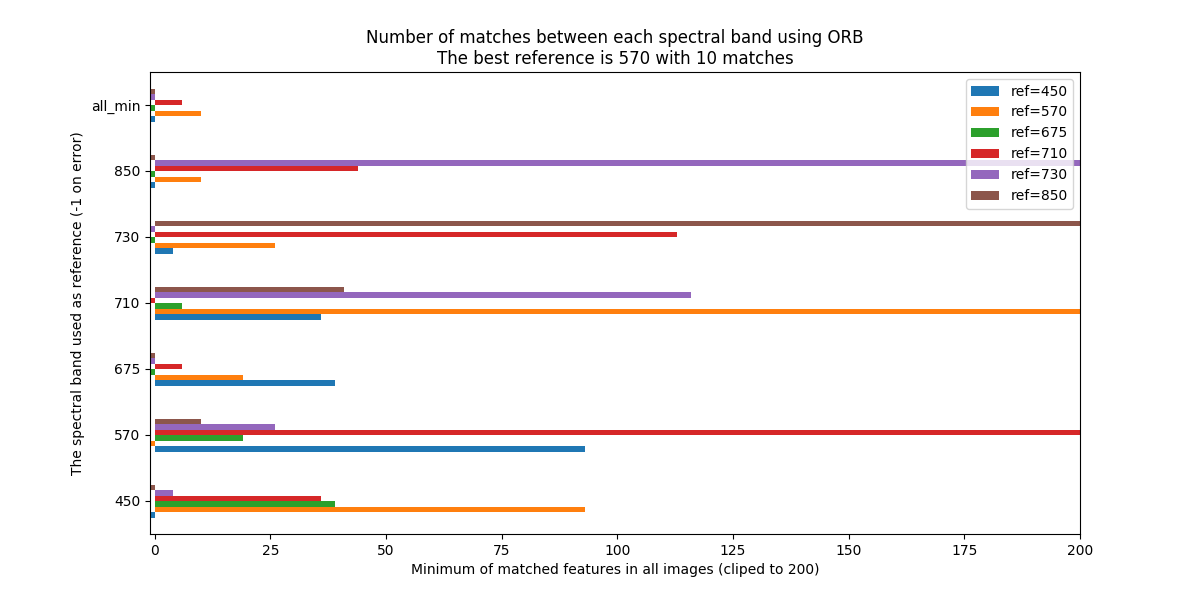
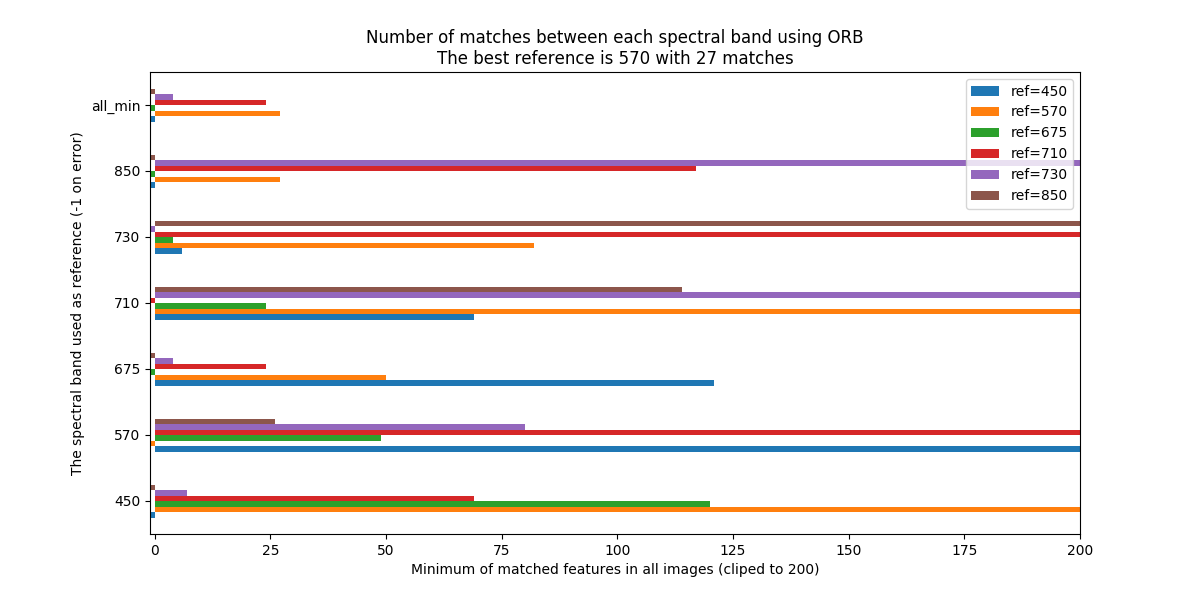
new GFTT feature extraction

diff --git a/8.time-reference-plot.py b/8.time-reference-plot.py
@@ -26,37 +26,18 @@ pass
 all_times = np.array(all_times)
 all_best = np.array(all_best)
 value = all_best / all_times * 2
-merged = np.vstack([all_times, all_best, value]).transpose()
+merged = np.vstack([all_times * 5, all_best, value]).transpose()
 
-if False:
-    fig, axes = plt.subplots(1, 2, figsize=(10,3))
+fig, axes = plt.subplots(1, 1, figsize=(10,3))
+columns = ['5x time in seconds', 'number of matches', 'matches/time']
 
-    df = pd.DataFrame(
-        all_times, index=all_methods,
-        columns=pd.Index(['computation time in seconds'])
-    )
-    df.plot(ax=axes[0], kind='barh')
-    axes[0].legend(loc='lower right')
-
-    df = pd.DataFrame(
-        all_best, index=all_methods,
-        columns=pd.Index(['number of features'])
-    )
-    df.plot(ax=axes[1], kind='barh')
-    axes[1].legend(loc='lower right')
-else:
-    fig, axes = plt.subplots(1, 1, figsize=(10,3))
-    all_times = all_times * 4
-    columns = ['4x time in seconds', 'number of matches', 'matches/time']
-    
-    df = pd.DataFrame(
-        merged, index=all_methods,
-        columns=pd.Index(columns)
-    )
-    df = df.sort_values(['matches/time'])
-    df.plot(ax=axes, kind='barh')
-    plt.xlim([0,200])
-pass
+df = pd.DataFrame(
+    merged, index=all_methods,
+    columns=pd.Index(columns)
+)
+df = df.sort_values(['matches/time'])
+df.plot(ax=axes, kind='barh')
+plt.xlim([0,250])
 
 plt.suptitle('Keypoint extraction performances')
 plt.tight_layout(rect=(0,0,1,0.97))

diff --git a/src/keypoint.py b/src/keypoint.py
@@ -72,7 +72,7 @@ def keypoint_detect(img1, img2, method='FAST'):
     #print('keypoint detection ...')
     
     detectors = {
-        'ORB'   : partial(cv2.ORB_create, nfeatures=2000), # error
+        'ORB'   : partial(cv2.ORB_create, nfeatures=5000), # error
         'AGAST' : partial(cv2.AgastFeatureDetector_create, threshold=92, nonmaxSuppression=True),
         'AKAZE' : partial(cv2.AKAZE_create),
         'KAZE'  : partial(cv2.KAZE_create),
@@ -81,14 +81,13 @@ def keypoint_detect(img1, img2, method='FAST'):
         #'SIFT'  : partial(cv2.xfeatures2d.SIFT_create, nfeatures=1000), # good ~5s
         # exact ~5s (increase parameter for higher precision)
         'SURF'  : partial(cv2.xfeatures2d.SURF_create, hessianThreshold=10, nOctaves=2, nOctaveLayers=1, upright=False),
-        'FAST' : partial(cv2.FastFeatureDetector_create, threshold=92, nonmaxSuppression=True),
+        'FAST'  : partial(cv2.FastFeatureDetector_create, threshold=92, nonmaxSuppression=True),
+        'GFTT'  : partial(cv2.GFTTDetector_create, maxCorners=5000,useHarrisDetector=True),
     }
     
     detector = detectors[method]()
     kp1 = detector.detect(img1,None)
     kp2 = detector.detect(img2,None)
-    
-    #descriptor = detector
     descriptor = cv2.ORB_create()
     kp1, des1 = descriptor.compute(img1, kp1)
     kp2, des2 = descriptor.compute(img2, kp2)

diff --git a/src/data.py b/src/data.py
@@ -15,4 +15,4 @@ height = np.array([
 bands_text = ['blue', 'green', 'red', 'redge', 'redge-max', 'nir']
 all_bands = [450, 570, 675, 710, 730, 850]
 
-all_methods = ['ORB', 'AKAZE', 'KAZE', 'BRISK', 'AGAST', 'MSER', 'SURF', 'FAST']
+all_methods = ['ORB', 'AKAZE', 'KAZE', 'BRISK', 'AGAST', 'MSER', 'SURF', 'FAST', 'GFTT']

diff --git a/1.view.py b/1.view.py
@@ -12,8 +12,8 @@ for h in height:
     S = SpectralImage('./data/steep/', str(h))
     
     loaded, nb_kp = load_spectral_bands(
-        S, method='FAST',
-        reference=all_bands.index(710),
+        S, method='GFTT',
+        reference=all_bands.index(570),
         verbose=1
     )
     

diff --git a/README.md b/README.md
@@ -66,7 +66,7 @@ to find similarity in gradient break of those ones. The Sharr filter are used in
 ![alt text](figures/math-perspective-correction.png "equation of the perspective correction")
 
 + compute gradient using Sharr in each spectral band and normalize it
-+ detect keypoints on all spectral bands gradient using FAST (for time performance)
++ detect keypoints on all spectral bands gradient using GFTT (for time performance)
 + extract descriptor using ORB (for matche performance)
 + match keypoint of each spectral band to a reference (570 or 710 seem the most valuable -> number of matches)
 + filter matches (distance, position, angle) to remove false positive one (pre-affine transform give epipolar line properties)
@@ -80,12 +80,24 @@ to find similarity in gradient break of those ones. The Sharr filter are used in
 A keypoint is a point of interest. It defines what is important and distinctive in an image (corners, edges, etc).
 Different type of keypoint extractor has been tested {ORB, AKAZE, KAZE, BRISK, AGAST, MSER, SURF, FAST} all results can be found in figures/
 These algorithms are all available and easily usable in OpenCV.
+
++ ORB : An efficient alternative to SIFT or SURF 
++ AKAZE : Fast explicit diffusion for accelerated features in nonlinear scale spaces
++ KAZE : A novel multiscale 2D feature detection and description algorithm in nonlinear scale spaces
++ BRISK : Binary robust invariant scalable keypoints.
++ AGAST : Adaptive and generic corner detection based on the accelerated segment test
++ MSER : maximally stable extremal regions
++ SURF : Speeded-Up Robust Features
++ FAST : FAST Algorithm for Corner Detection
++ GFTT : Good Features to Track
+
 The following figure show the numbers of keypoint after filtering and homography association (minimum of all matches),
 the computation time and the performances ratio (matches/time) for each methods.
 
 ![alt text](figures/comparaison-keypoint-performances.png "features performances")
 
 All this methods works, the selection of the methods depends on how we want to balance between computation time and precision:
++ GFTT show the best performance over all others both in computation time and number of matches
 + FAST and AGAST is the most suitable, balanced between time and matches performances.
 + KAZE show the best number of matches (>200) but it's also 2.5 times slower than FAST/AGAST.
 + SURF can be suitable for small gain of performances, the number of detected feature can be enought to fit the perspective correction.
@@ -98,12 +110,15 @@ The other ones did not show improvement in terme of performanes or matches:
 Increasing the number of matched keypoints show tiny more precision. For exemple, moving from SURF (~30 matches) to FAST (~130 matches)
 show the final residual distances reduced from ~1.2px to ~0.9px and the computation time from ~5sec to ~8sec.
 
-All methods show that the best reference spectra is 710nm, execpted for SURF how is 570nm.
+All methods show that the best reference spectra is 710nm, execpted for SURF and GFTT how is 570nm.
 The following figure show the Minimum of number of matches between each reference spectra to all others using FAST algorithm.
 
 ![alt text](figures/comparaison-keypoint-matching-reference-FAST.png "feature SURF performances")
 
-The residuals of the perspective correction 
+Once the best keypoints extractor and spectral reference are defined, we use there detection to estimate an homography.
+Homography is an isomorphism of perspectives. A 2D homography between A and B would give you the projection transformation
+between the two images. It is a 3x3 matrix that descibes the affine transformation.
+The residuals of the perspective correction.
 
 ![alt text](figures/prespective-allignement-rmse.jpg "Prespective Reprojection Error")
 
@@ -140,3 +155,5 @@ Future work on spectral correction :
 + https://pdfs.semanticscholar.org/25b6/4d89abdd36e0800da4679813935f055846dd.pdf
 + https://www.insticc.org/Primoris/Resources/PaperPdf.ashx?idPaper=75802
 + https://arxiv.org/pdf/1606.03798.pdf
+
++ Deeper understanding of the homography decompositionfor vision-based control
